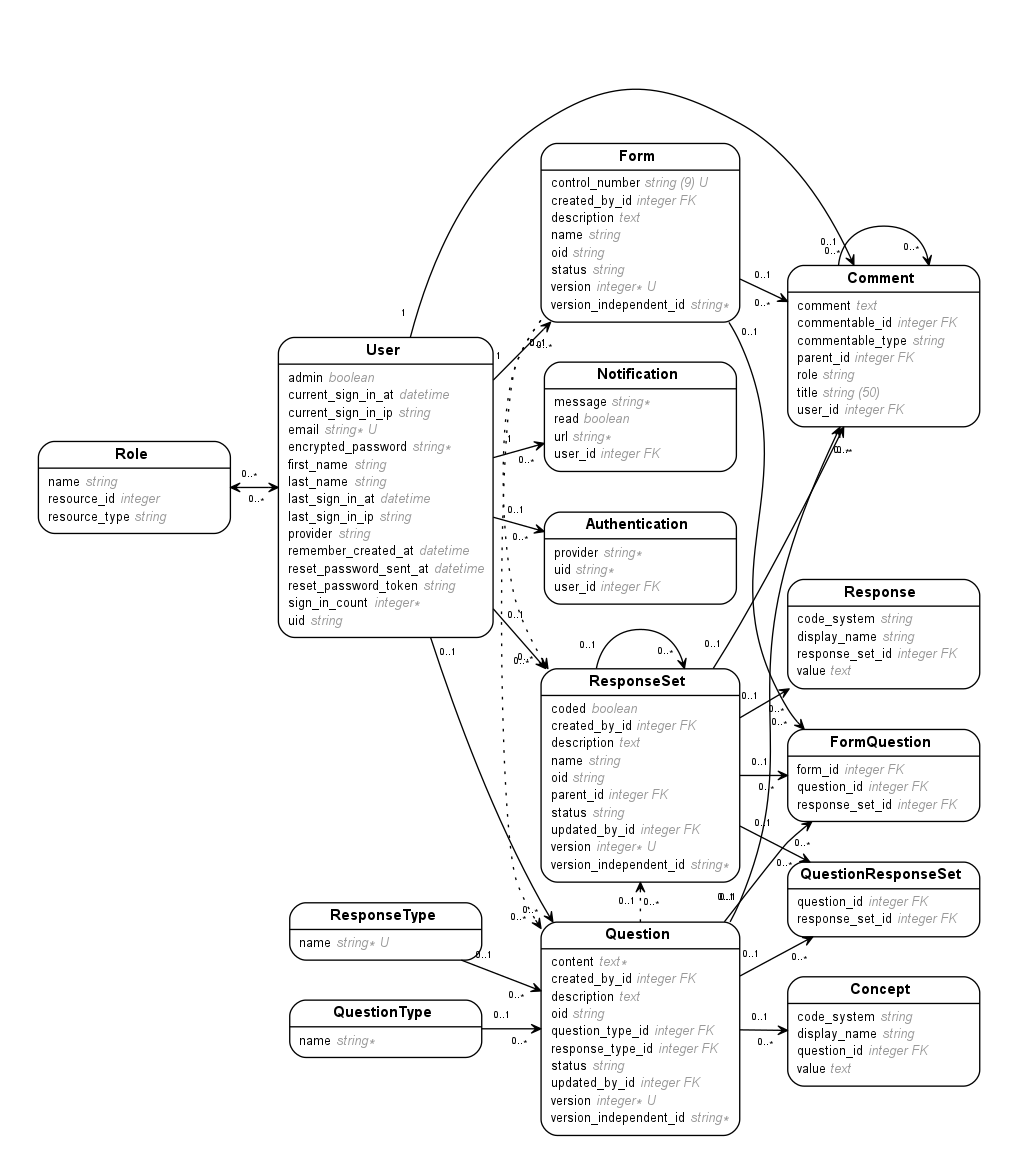
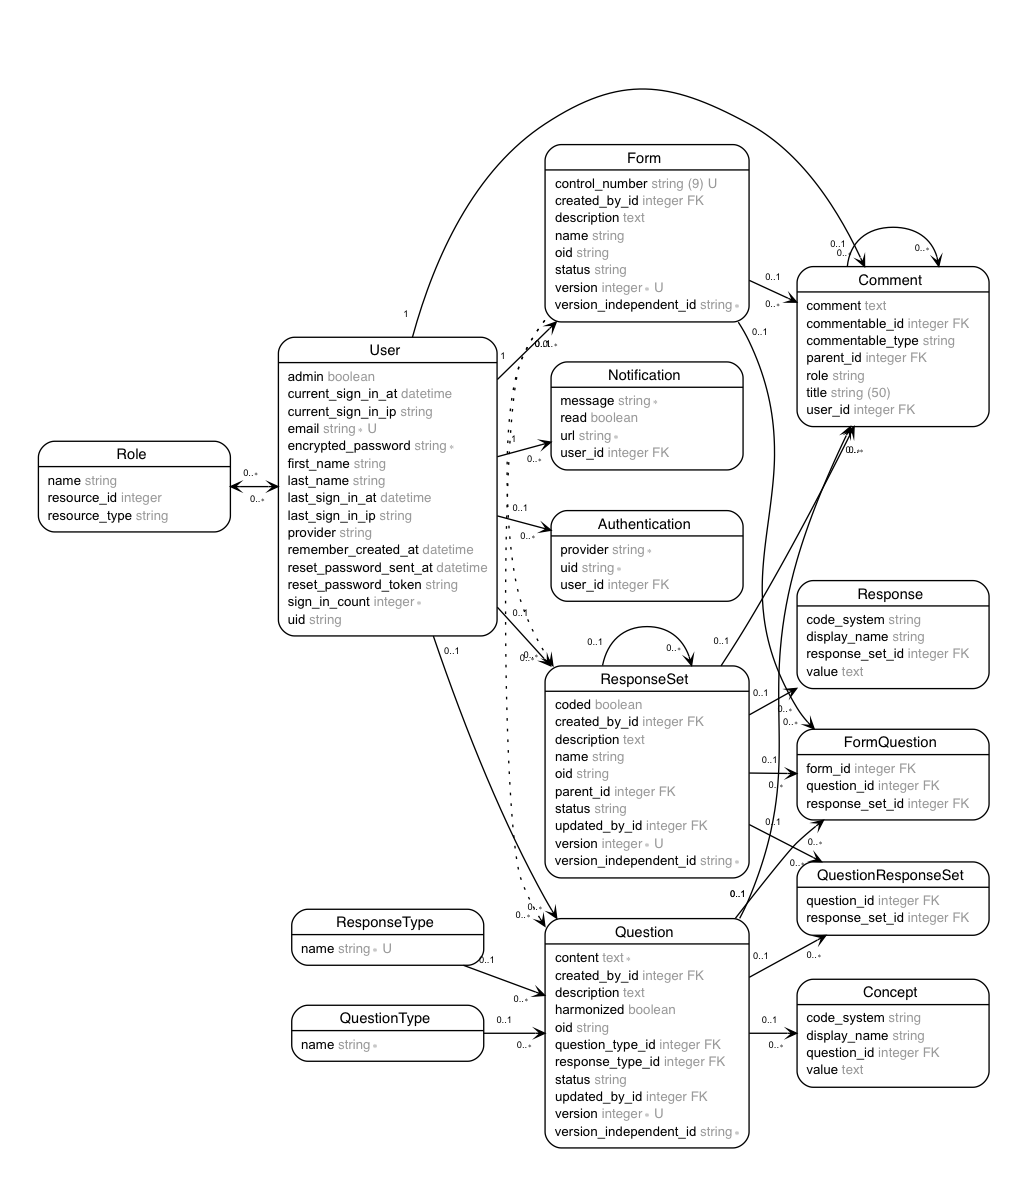
updating erd

diff --git a/db/schema.rb b/db/schema.rb
@@ -123,9 +123,9 @@ ActiveRecord::Schema.define(version: 20170217164345) do
     t.integer  "created_by_id"
     t.integer  "updated_by_id"
     t.boolean  "coded"
+    t.integer  "parent_id"
     t.string   "version_independent_id"
     t.integer  "version",                default: 1
-    t.integer  "parent_id"
     t.string   "status"
     t.index ["created_by_id"], name: "index_response_sets_on_created_by_id", using: :btree
     t.index ["updated_by_id"], name: "index_response_sets_on_updated_by_id", using: :btree
@@ -155,6 +155,22 @@ ActiveRecord::Schema.define(version: 20170217164345) do
     t.datetime "updated_at"
     t.index ["name", "resource_type", "resource_id"], name: "index_roles_on_name_and_resource_type_and_resource_id", using: :btree
     t.index ["name"], name: "index_roles_on_name", using: :btree
+  end
+
+  create_table "taggings", force: :cascade do |t|
+    t.integer  "tag_id"
+    t.string   "taggable_type"
+    t.integer  "taggable_id"
+    t.string   "tagger_type"
+    t.integer  "tagger_id"
+    t.string   "context",       limit: 128
+    t.datetime "created_at"
+    t.index ["tag_id", "taggable_id", "taggable_type", "context", "tagger_id", "tagger_type"], name: "taggings_idx", unique: true, using: :btree
+  end
+
+  create_table "tags", force: :cascade do |t|
+    t.string "name"
+    t.index ["name"], name: "index_tags_on_name", unique: true, using: :btree
   end
 
   create_table "users", force: :cascade do |t|
